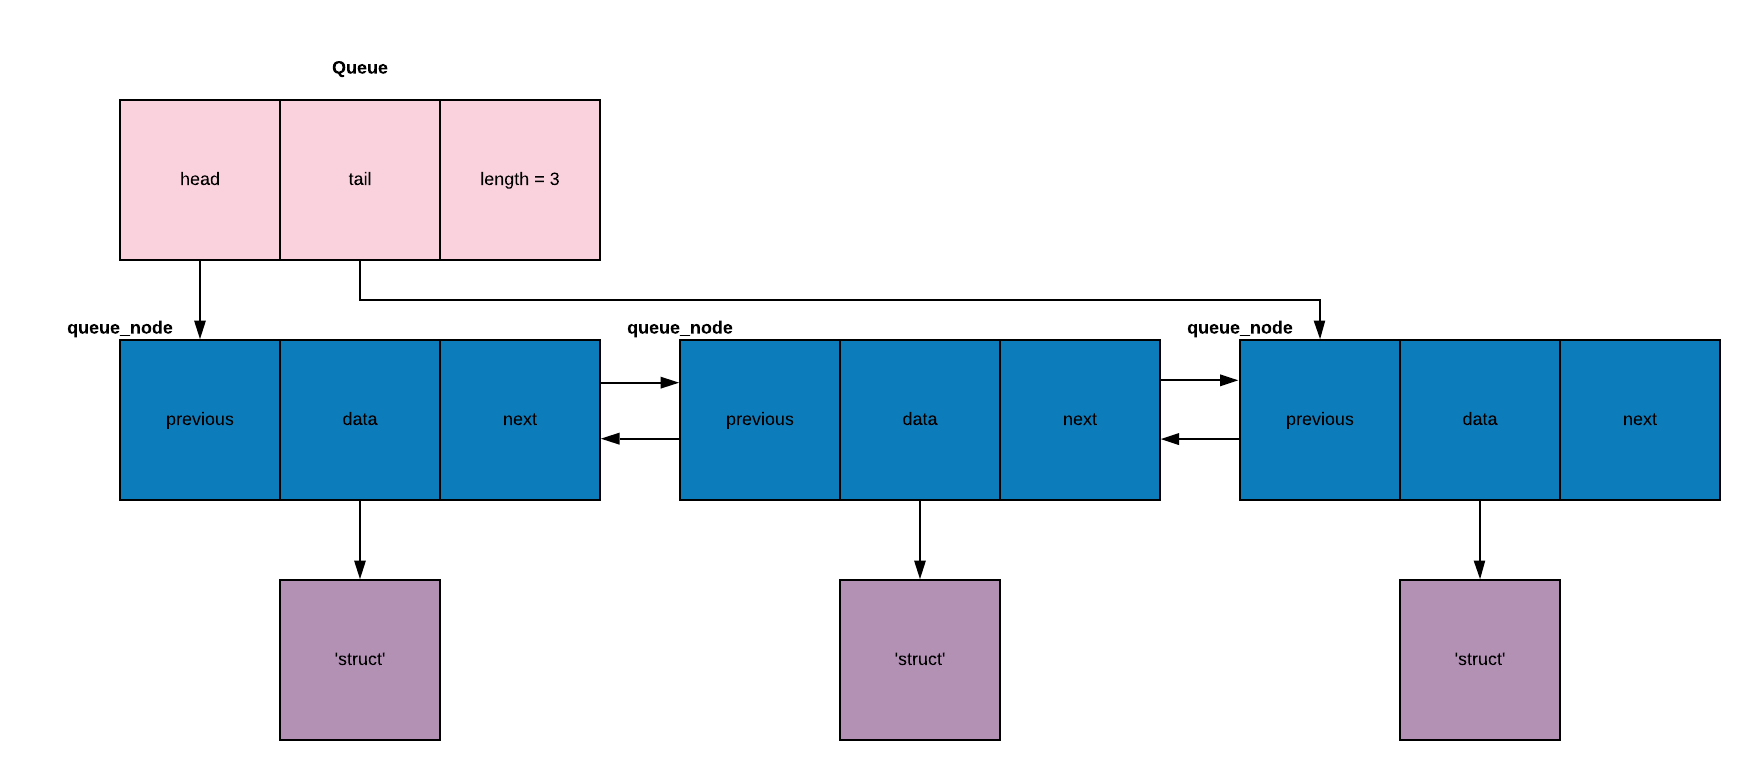
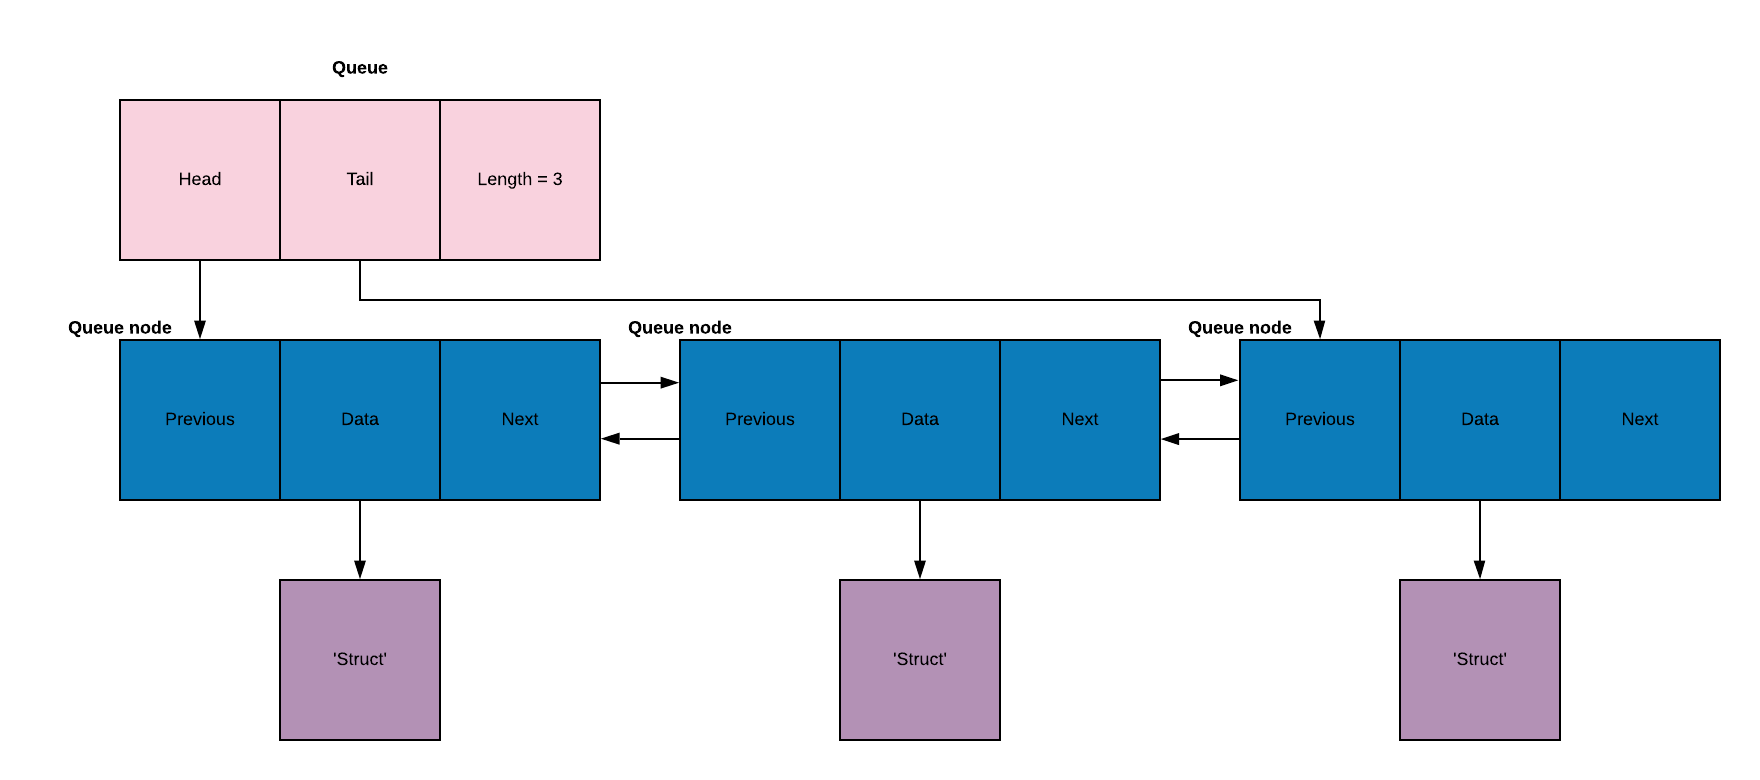
update README.md, update queue.png, replace thread_pool.png with new job_scheduler.png

diff --git a/source/queue.c b/source/queue.c
@@ -130,7 +130,7 @@ void *pop_tail_queue(struct queue **queue) {
     return data;
 }
 
-// returns the lengths of the queue
+// returns the length of the queue
 unsigned int get_length_queue(struct queue *queue) {
     error_handler(queue == NULL,"queue is NULL");
     return queue->length;

diff --git a/README.md b/README.md
@@ -9,6 +9,11 @@ It allows a limit to the number of threads and tasks are queued and only run whe
 Queue is a linear structure which follows a particular order in which the operations are performed. The order is First In First Out (FIFO). 
 It holds the function to call and it's arguments. Basically, it is used for the temporary storage of jobs.
 
+When I started the project I implemented a simple Queue, but I develop it to a **Generic Double Linked Queue** (Probably useful for other projects).
+
+A **good approach when someone wants to use the Queue** is to create his own allocation, initialization and free functions for his struct. For example, 
+my functions for job struct in job_scheduler.c file: a)initialize_job(allocates and initializes a job struct), b) free_job(frees a job struct).
+
 ```c
     // Queue functions
     struct queue *initialize_queue();
@@ -19,13 +24,13 @@ It holds the function to call and it's arguments. Basically, it is used for the 
     void free_queue(struct queue **);
 ```
 
-![queue](https://user-images.githubusercontent.com/48658768/86474114-d65efb80-bd4a-11ea-8d47-d27b61c8f9b8.png)
+![queue](https://user-images.githubusercontent.com/48658768/87132434-862def00-c29e-11ea-9921-c21bd3173f19.png)
 
-## Job scheduler
+## Job Scheduler
 
-Job scheduler is a structure that manages the thread pool and the queue. Job scheduler's basic entity is Job. A Job is a routine, 
-which we want to be executed by a thread, most likely parallel to some other. Any job can be defined as work and assigned to the Job scheduler. 
-The scheduler basically accepts jobs and assigns them to threads.
+Job scheduler is a structure that manages the thread pool and the queue. Job Scheduler's basic entity is Job. A Job is a routine, 
+which we want to be executed by a thread, most likely parallel to some other. Any job can be defined as work and assigned to the Job Scheduler. 
+The Scheduler basically accepts jobs and assigns them to threads.
 
 ```c
     // Job scheduler functions
@@ -45,11 +50,18 @@ The scheduler basically accepts jobs and assigns them to threads.
     void resume_job_scheduler(struct job_scheduler *);
 ```
 
-![thread_pool](https://user-images.githubusercontent.com/48658768/71448039-5d4d6e80-273f-11ea-9017-2e57e1b5971d.png)
+![job_scheduler](https://user-images.githubusercontent.com/48658768/87144687-d4e48480-c2b0-11ea-9f2d-b7486d16820f.png)
 
-## Unit Testing
-[CUnit](http://cunit.sourceforge.net/) is a lightweight system for writing, administering, and running unit tests in C.  
-It provides C programmers a basic testing functionality with a flexible variety of user interfaces.
+**Each Job points to a Barrier** as you can see from the picture above, **which is just an integer that counts the sub-jobs of a Job**.
+Imagine that the Main Thread added Job_1.1 and Job_1.2. **Barrier helps us to use the Main Thread like a Thread in Thread pool**
+(dynamic_barrier_job_scheduler()). So, the Main Thread instead of waiting (barrier_job_scheduler()) executes jobs as well, until
+it's jobs are finished. Of course, **the same thing happens to all the Threads in Thread pool**. They can add more Jobs as they
+are executing a Job and instead of waiting them to finish they keep popping Jobs and executes them. Check multiple_jobs.c example/test.
+
+## Testing
+[**CUnit**](http://cunit.sourceforge.net/) is a lightweight system for writing, administering, and running unit tests in C. 
+It provides C programmers a basic testing functionality with a flexible variety of user interfaces. That's what I used
+to test my **Queue**. As for the **Job Scheduler**, I implemented some examples of it's use.
 
 ### Instalation instructions
 
@@ -59,14 +71,14 @@ It provides C programmers a basic testing functionality with a flexible variety 
 
 ### Execution instructions
 
-Run all the tests together
+Run all the tests **together**
 
 ```
     $ cd tests
     $ ./run_tests.sh
 ```
 
-Οr you can compile and run each executable individually
+Οr you can compile and run each executable **individually**
 
 ```
     $ cd tests/job_scheduler
